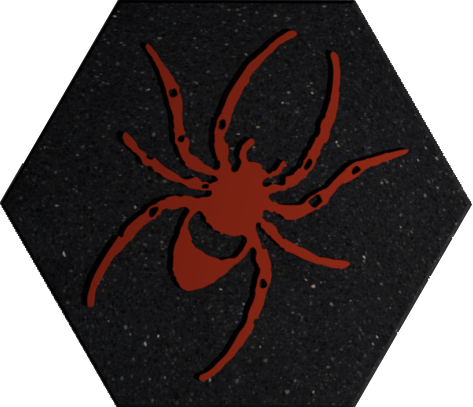
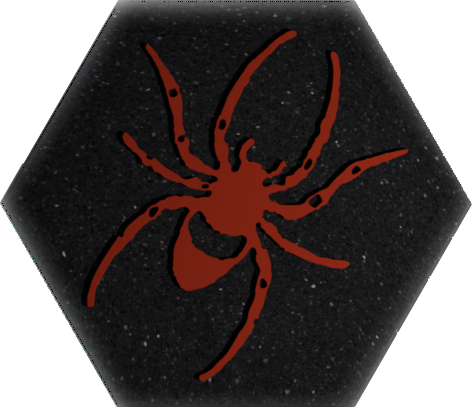
Changement du plateau central + ajout blanc autour des pions + amelioration de l'interfacePlateau

diff --git a/TheHives/src/hive/vue/InterfacePlateau.java b/TheHives/src/hive/vue/InterfacePlateau.java
@@ -16,7 +16,10 @@ import javafx.scene.Group;
 import javafx.scene.Node;
 import javafx.scene.Parent;
 import javafx.scene.Scene;
+import javafx.scene.control.Alert;
+import javafx.scene.control.Alert.AlertType;
 import javafx.scene.control.ScrollPane;
+import javafx.scene.control.Tooltip;
 import javafx.scene.image.Image;
 import javafx.scene.input.MouseEvent;
 import javafx.scene.layout.Background;
@@ -65,6 +68,8 @@ public class InterfacePlateau extends Interface {
     HBox droite;
     String j1;
     String j2;
+    
+    boolean onDrag = false;
 
     public InterfacePlateau(Stage stage, Controller controller, Game game, CacheImage c, String joueur1, String joueur2) {
 
@@ -105,7 +110,7 @@ public class InterfacePlateau extends Interface {
         centerMainD.getChildren().add(mainDroite);
         centerMainG.getChildren().add(mainGauche);
 
-        Image bimPlateau = c.getImage("Design/MenuPrincipaux/panneauTheHive.png");
+        Image bimPlateau = c.getImage("Design/FenetrePlateau/Plateau.png");
         BackgroundSize bsiPlateau = new BackgroundSize(100, 100, true, true, false, true);
         BackgroundImage baimPlateau = new BackgroundImage(bimPlateau, BackgroundRepeat.NO_REPEAT, BackgroundRepeat.NO_REPEAT, BackgroundPosition.CENTER, bsiPlateau);
         Background backgroundPlateau = new Background(baimPlateau);
@@ -133,6 +138,7 @@ public class InterfacePlateau extends Interface {
         borderPane.setTop(tool);
         borderPane.setLeft(centerMainG);
         borderPane.setRight(centerMainD);
+        setRucheHandler();
 
         this.panePrincipale.getChildren().add(borderPane);
 
@@ -147,6 +153,20 @@ public class InterfacePlateau extends Interface {
         majJoueurCourant(TeamColor.WHITE);
         mainGauche.update(game.state.players.get(0).collection);
         mainDroite.update(game.state.players.get(1).collection);
+    }
+
+    private void setRucheHandler() {
+        ruche.setOnDragDetected((value) -> {
+            this.onDrag = true;
+        });
+        ruche.setOnDragDone((value)->{
+            this.onDrag = false;
+        });
+        ruche.setOnMouseMoved((value)->{
+            if(this.onDrag){
+                System.out.println("value");
+            }
+        });
     }
 
     private BorderPane setTool() {
@@ -247,15 +267,30 @@ public class InterfacePlateau extends Interface {
         pane.setRight(droite);
         pane.setCenter(g);
 
+        Tooltip retourMenuTip = new Tooltip("Retour au menu");
+        Tooltip sauvegarderTip = new Tooltip("Sauvergarder");
+        Tooltip recommencerTip = new Tooltip("Recommencer");
+        Tooltip regleTip = new Tooltip("Règles");
+        Tooltip annulerTip = new Tooltip("Annuller un coup");
+        Tooltip conseilTip = new Tooltip("Conseil");
+        Tooltip replayTip = new Tooltip("Refaire le coup annuler");
+
         gauche.getChildren().add(boutonHome);
+        Tooltip.install(boutonHome, retourMenuTip);
         gauche.getChildren().add(boutonSave);
+        Tooltip.install(boutonSave, sauvegarderTip);
         gauche.getChildren().add(boutonRecommencer);
+        Tooltip.install(boutonRecommencer, recommencerTip);
         droite.getChildren().add(boutonRegle);
+        Tooltip.install(boutonRegle, regleTip);
         droite.getChildren().add(boutonPleinEcran);
         droite.getChildren().add(boutonPreference);
         centre.getChildren().add(boutonAnnuler);
+        Tooltip.install(boutonAnnuler, annulerTip);
         centre.getChildren().add(boutonConseil);
+        Tooltip.install(boutonConseil, conseilTip);
         centre.getChildren().add(boutonReplay);
+        Tooltip.install(boutonReplay, replayTip);
 
         return pane;
 
@@ -285,6 +320,14 @@ public class InterfacePlateau extends Interface {
 
     public void finPartie(String gagnant) {
         this.panePrincipale.getChildren().add(new FinPartie(primaryStage, controller, c, gameController, this, gagnant));
+    }
+
+    public void message(String titre, String message) {
+        Alert alert = new Alert(AlertType.INFORMATION);
+        alert.setTitle(titre);
+
+        alert.setContentText(message);
+        alert.show();
     }
 
 }

diff --git a/TheHives/src/hive/vue/FinPartie.java b/TheHives/src/hive/vue/FinPartie.java
@@ -6,11 +6,17 @@
 package hive.vue;
 
 import hive.controller.Controller;
-import hive.controller.plateauscene.game.GameController;
+import hive.controller.plateau.PlateauController;
 import javafx.geometry.Pos;
 import javafx.scene.Parent;
 import javafx.scene.control.Label;
+import javafx.scene.image.Image;
 import javafx.scene.input.MouseEvent;
+import javafx.scene.layout.Background;
+import javafx.scene.layout.BackgroundImage;
+import javafx.scene.layout.BackgroundPosition;
+import javafx.scene.layout.BackgroundRepeat;
+import javafx.scene.layout.BackgroundSize;
 import javafx.scene.layout.HBox;
 import javafx.scene.layout.VBox;
 import javafx.stage.Stage;
@@ -24,7 +30,7 @@ public class FinPartie extends Parent {
     private final Stage primaryStage;
     private final Controller controller;
     private final CacheImage cacheImage;
-    private final GameController gameController;
+    private final PlateauController gameController;
     private final Interface i;
     private final HBox bouton;
     private final VBox principal;
@@ -35,7 +41,7 @@ public class FinPartie extends Parent {
     private final HiveBouton recommencer;
     private final HiveBouton retourMenu;
 
-    public FinPartie(Stage _primaryStage, Controller _controller, CacheImage _cacheImage, GameController _gameController, Interface _i, String joueurGagnant) {
+    public FinPartie(Stage _primaryStage, Controller _controller, CacheImage _cacheImage, PlateauController _gameController, Interface _i, String joueurGagnant) {
         primaryStage = _primaryStage;
         controller = _controller;
         gameController = _gameController;
@@ -57,9 +63,12 @@ public class FinPartie extends Parent {
         this.getChildren().add(principal);
     }
 
-
     private void setTextWithCurrentLanguage() {
-        message.setText(gagnant + " " + controller.gestionnaireLangage.getText("text_gagne"));
+        if (gagnant != null) {
+            message.setText(gagnant + " " + controller.gestionnaireLangage.getText("text_gagne"));
+        } else {
+            message.setText(controller.gestionnaireLangage.getText("text_egalite"));
+        }
 
     }
 
@@ -70,11 +79,16 @@ public class FinPartie extends Parent {
         });
 
         retourMenu.addEventHandler(MouseEvent.MOUSE_CLICKED, (event) -> {
+            i.panePrincipale.getChildren().remove(this);
             controller.goToMenu();
         });
     }
 
     private void placerObjetsGraphiques() {
+        Image fond = cacheImage.getImage("Design/MenuPrincipaux/panneauTheHive.png");
+        BackgroundSize backgroundSize = new BackgroundSize(100, 100, true, true, true, false);
+        BackgroundImage backgroundFond = new BackgroundImage(fond, BackgroundRepeat.NO_REPEAT, BackgroundRepeat.NO_REPEAT, BackgroundPosition.CENTER, backgroundSize);
+        principal.setBackground(new Background(backgroundFond));
 
         principal.prefWidthProperty().bind(primaryStage.widthProperty());
         principal.prefHeightProperty().bind(primaryStage.heightProperty());

diff --git a/TheHives/src/hive/controller/plateau/PlateauController.java b/TheHives/src/hive/controller/plateau/PlateauController.java
@@ -105,6 +105,7 @@ public class PlateauController
         while(!game.state.data.trace.isEmpty())
         {
             undo();
+            System.out.println("fdsdf");
         }
         game.state.data.undos.clear();
         timerFrame.play();
@@ -139,6 +140,7 @@ public class PlateauController
                     GameProgress progress = new GameProgress(game);
                     progress.doAction();
                     startOfTurnInfos();
+                    uiPlateau.message("Attention", "Vous ne pouvez pas jouer, vous devez attendre le tour suivant");
                     //TODO : popup "vous ne pouvez pas jouer : passage au tour suivant"
                 }
                 if (game.rules.queenMustBePut(game.state))
@@ -149,24 +151,26 @@ public class PlateauController
                     builder.setDestinations(HiveUtil.getPlacements(game, tileClicked.type));
                     uiPlateau.getInterfacePlateauMain(builder.tile.color).surlignerTile(builder.tile);
                     uiPlateau.ruche.surlignerDestinationsPossibles(builder.possibleDestinations);
+                    uiPlateau.message("Attention", "Vous devez posez votre reine");
+
                     //TODO : popup "il faut poser la reine"
                 }
             }
             break;
             case CURRENT_WINS:
                 System.out.println("Le joueur courrant a gagné");
+                uiPlateau.finPartie(game.state.turn.current.toString());
                 stop();
-                //TODO : popup "le joueur courrant a gagné"
                 break;
             case OPPONENT_WINS:
                 System.out.println("Le joueur opposé a gagné");
+                uiPlateau.finPartie(game.state.turn.opponent.toString());
                 stop();
-                //TODO : popup "le joueur courrant a gagné"
                 break;
             case DRAW:
                 System.out.println("Plus personne ne peut joueur : match nul");
+                uiPlateau.finPartie(null);
                 stop();
-                //TODO : popup "plus personne ne peut joueur : match nul"
                 break;
         }
     }

diff --git a/TheHives/src/hive/vue/Interface.java b/TheHives/src/hive/vue/Interface.java
@@ -11,6 +11,7 @@ import javafx.beans.binding.Bindings;
 import javafx.beans.property.DoubleProperty;
 import javafx.beans.property.SimpleDoubleProperty;
 import javafx.scene.Parent;
+import javafx.scene.control.Tooltip;
 import javafx.scene.image.Image;
 import javafx.scene.input.MouseEvent;
 import javafx.scene.layout.Background;
@@ -73,10 +74,17 @@ public abstract class Interface extends Parent {
                 fontSize.bind(primaryStage.heightProperty().divide(30));
         this.styleProperty().bind(Bindings.concat("-fx-font-size: ", fontSize.asString(), ";",
                                                    "-fx-font-family: ", police, ";" ));
-
+        
+        Tooltip t = new Tooltip("Retour au menu");
+        Tooltip t1 = new Tooltip("Plein écran");
+        Tooltip t2 = new Tooltip("Réglages");
+       
         boutonPreference = new HiveBouton(c.getImage("Design/MenuPrincipaux/BouttonParametre.png"), primaryStage);
         boutonPleinEcran = new HiveBouton(c.getImage("Design/MenuPrincipaux/pleinEcran.png"), primaryStage);
         boutonRetourMenu = new HiveBouton(c.getImage("Design/FenetrePlateau/bouttonRetourMenu.png"), primaryStage);
+        Tooltip.install(boutonRetourMenu, t);
+        Tooltip.install(boutonPleinEcran, t1);
+        Tooltip.install(boutonPreference, t2);
 
         setBackground();
 
